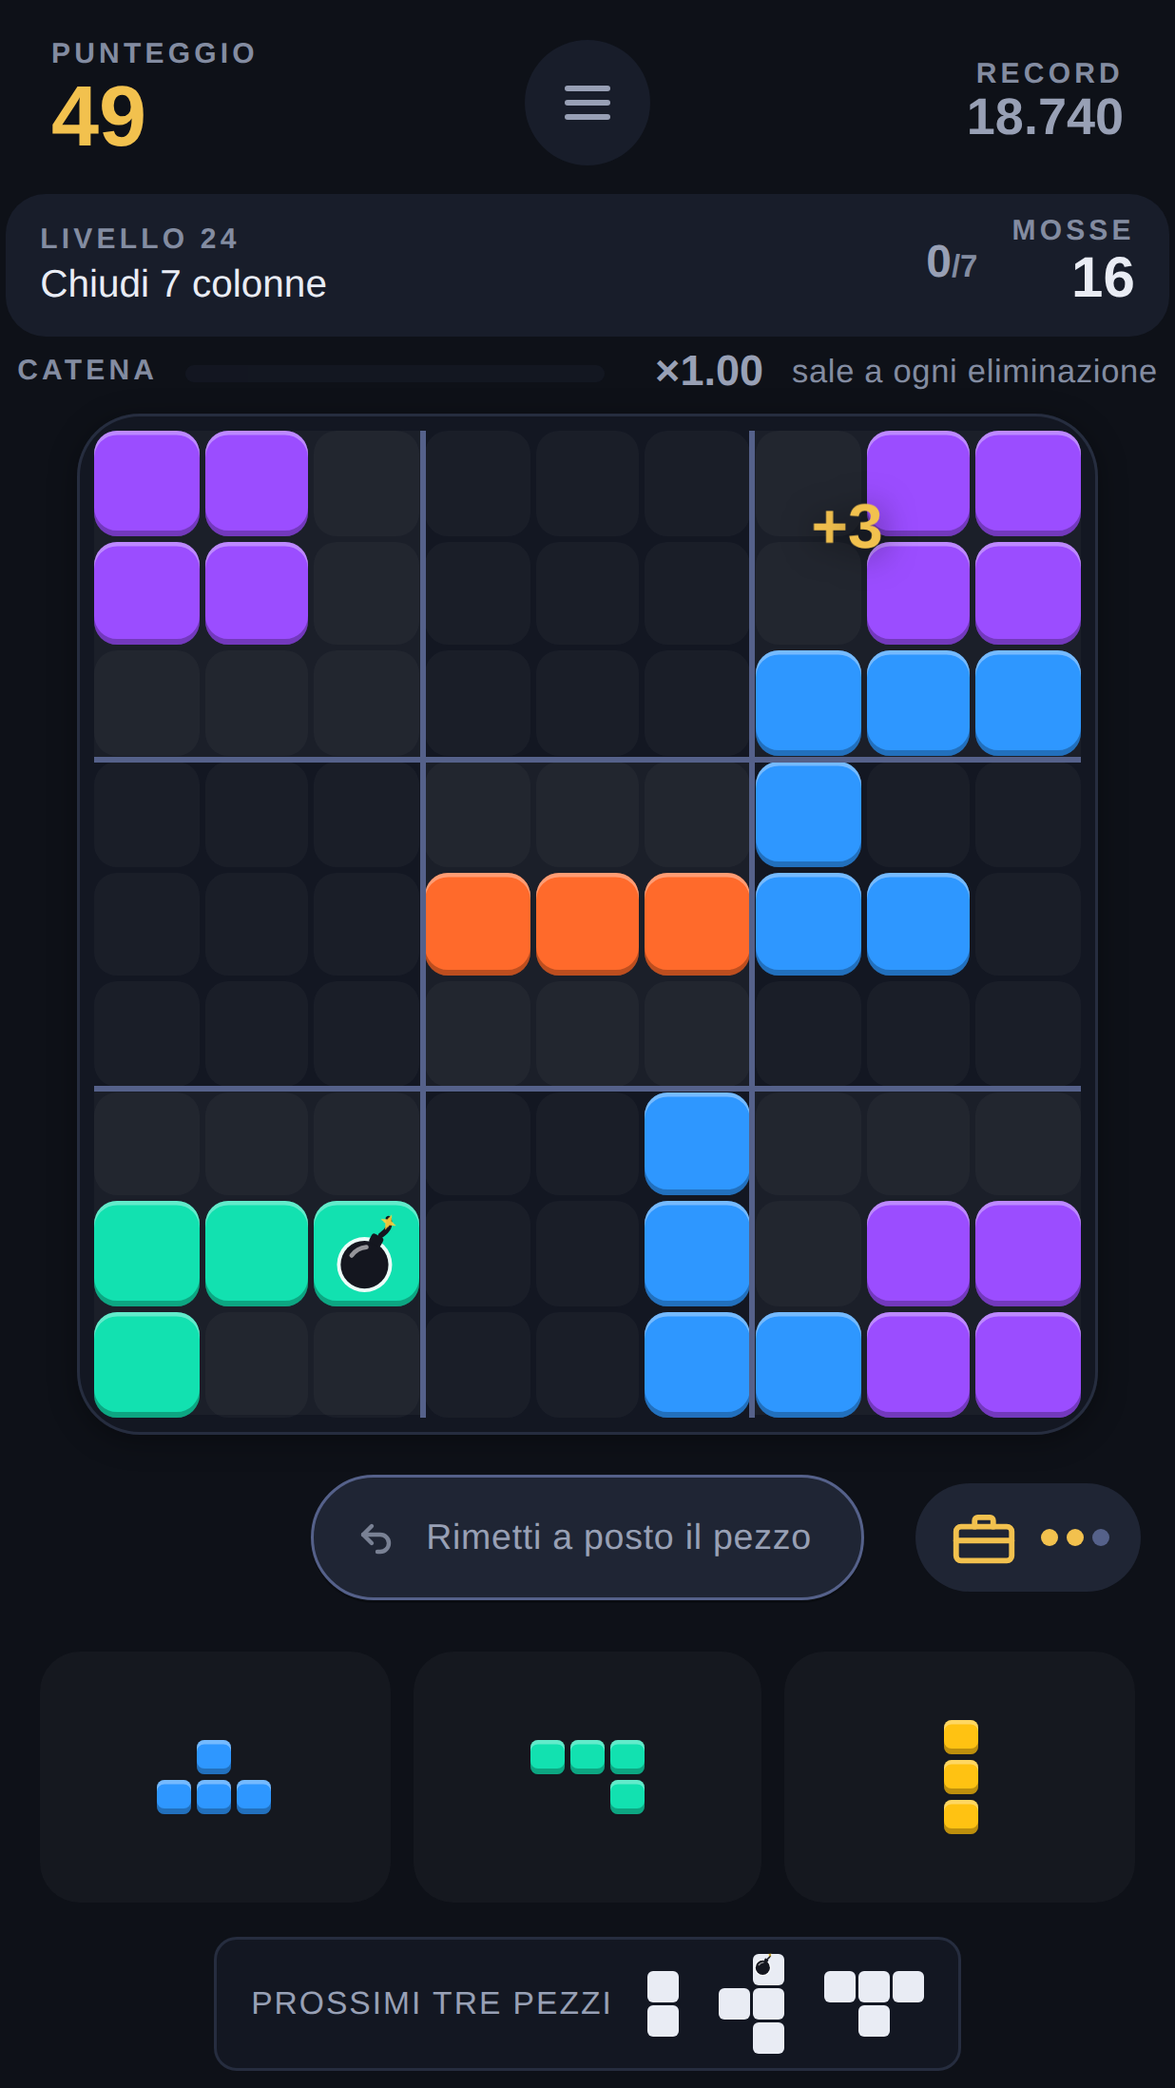
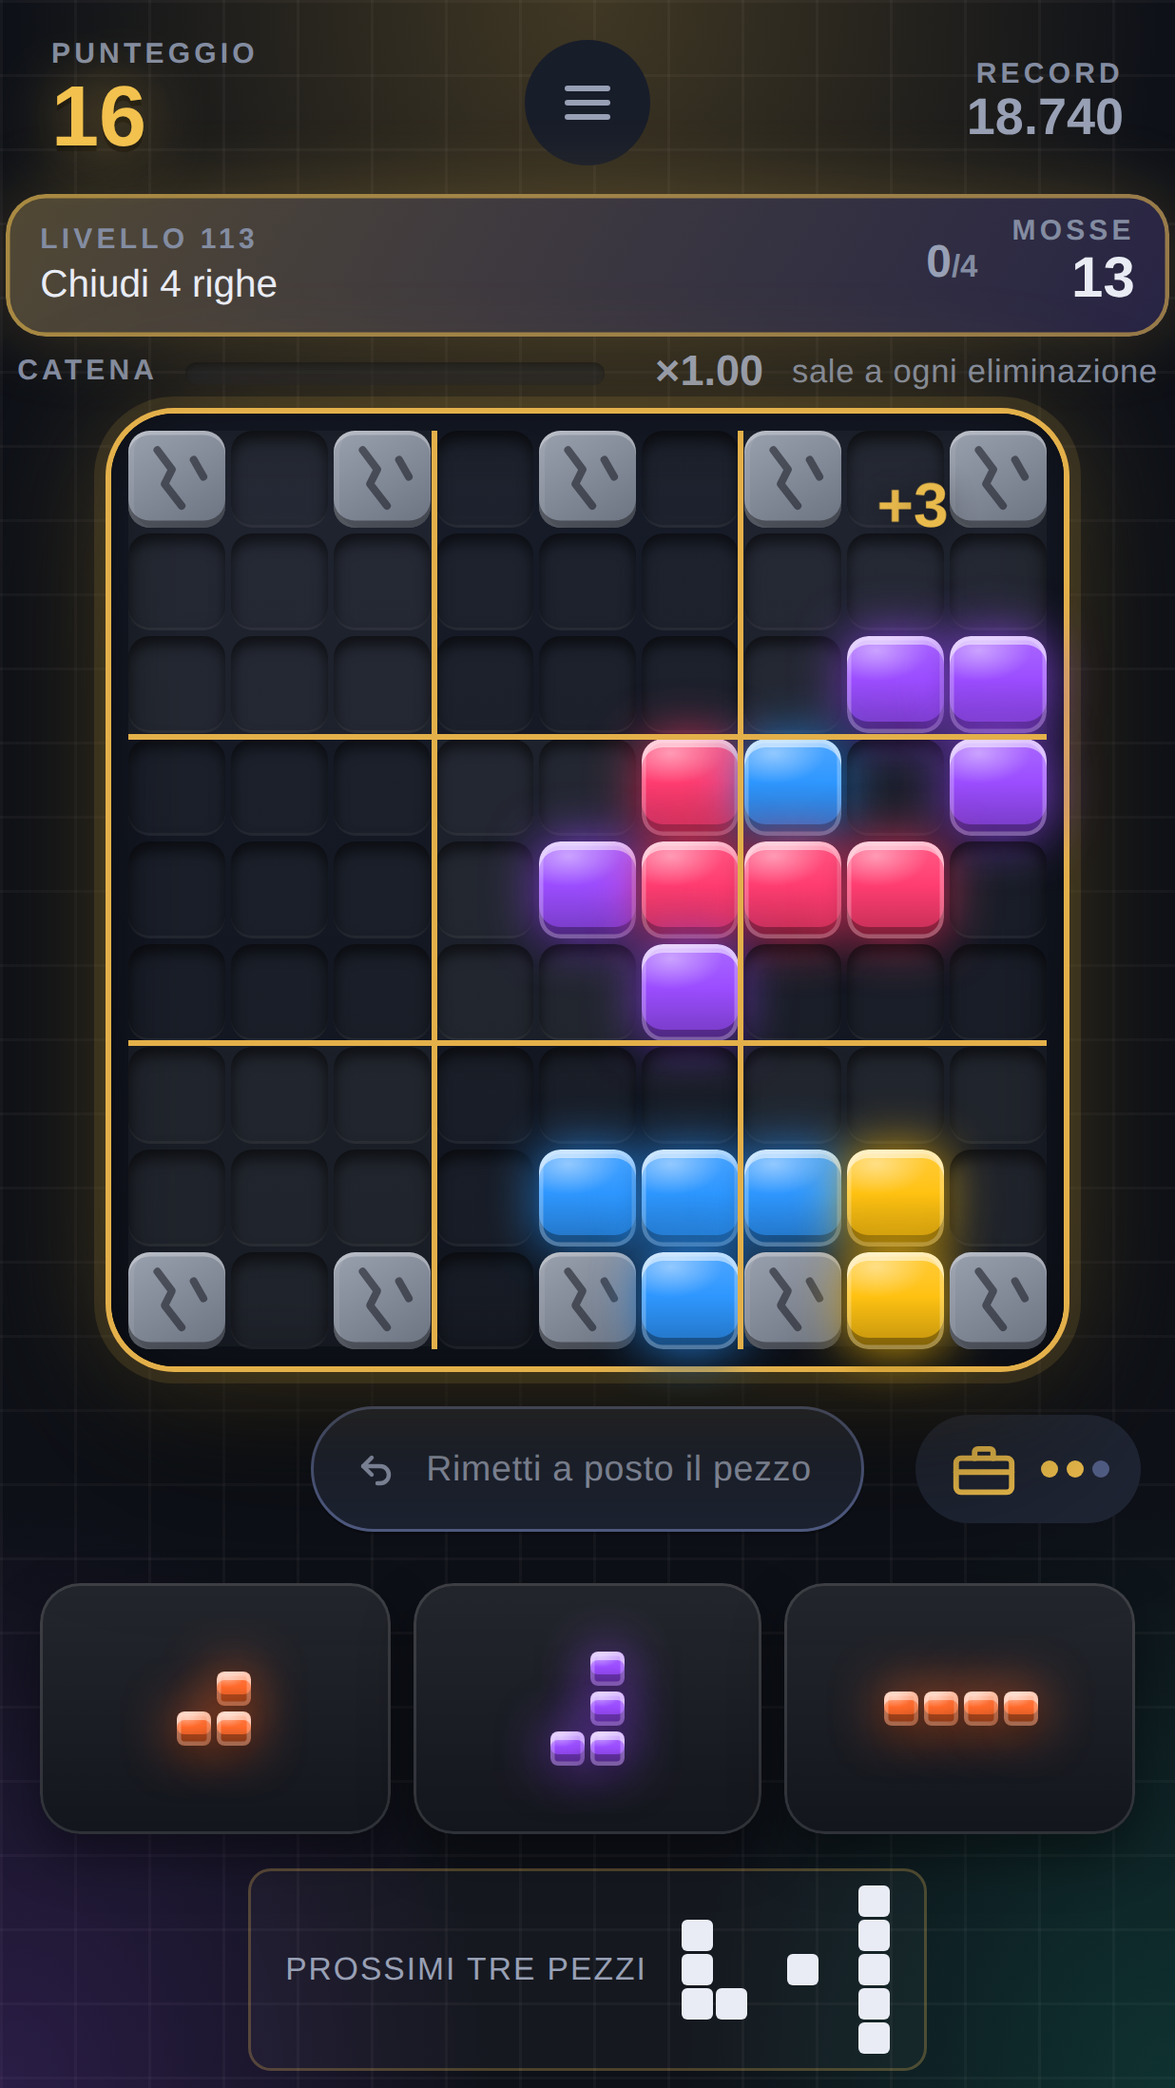
Torre: testi della scheda, note di rilascio e schermate; massi di nuovo visibili
- SCHEDA-PLAY-STORE.md: duecento livelli, i massi, l'ultimo livello di ogni opera,
  note di rilascio IT/EN (limite 500 verificato sulla guida di Play Console).
- schermate.mjs: mappa e livello della Torre; l'Intreccio si scatta a orologio
  fermo e lo strumento si ferma se la scritta manca.
- finiture.css: le gemme solo sui sei colori. Il masso e il blocco che esplode
  diventavano trasparenti; e2e-scenografie ora controlla entrambi.

Claude-Session: https://claude.ai/code/session_01GFoFz1oYDGgk1JF4CCyFX7

diff --git a/src/styles/finiture.css b/src/styles/finiture.css
@@ -132,8 +132,16 @@ body,
 .pl-plancia .pl-cella { box-shadow: inset 0 3px 5px rgba(0, 0, 0, 0.6), inset 0 -1px 0 rgba(255, 255, 255, 0.05); }
 
 /* I blocchi come gemme: riflesso, bordo chiaro e un alone del loro colore. Valgono
-   ovunque ci sia un blocco (plancia, pezzi in mano, pezzo trascinato). */
-.pl-blocco {
+   ovunque ci sia un blocco COLORATO (plancia, pezzi in mano, pezzo trascinato).
+
+   SOLO I SEI COLORI, e non `.pl-blocco` e basta. Con la regola su tutti i blocchi il
+   masso (che non ha colore) e il blocco che esplode (che ha il suo fondo, --esploso)
+   ereditavano una sfumatura costruita su `--blocco`, che per loro non esiste: la
+   dichiarazione diventava invalida e il fondo trasparente. I massi della Torre erano
+   caselle scure con una crepa, quasi invisibili. Visto nelle schermate per lo store,
+   9 ottobre 2026. `:where` e non `:is`: tiene la regola leggera come prima, cosi' le
+   regole di app.css che la battevano (anteprima, posa non valida) la battono ancora. */
+.pl-blocco:where(.pl-blocco--1, .pl-blocco--2, .pl-blocco--3, .pl-blocco--4, .pl-blocco--5, .pl-blocco--6) {
   background:
     radial-gradient(120% 70% at 30% 15%, rgba(255, 255, 255, 0.42) 0%, rgba(255, 255, 255, 0) 45%),
     linear-gradient(180deg, color-mix(in srgb, var(--blocco) 85%, white) 0%, var(--blocco) 45%,

diff --git a/android/SCHEDA-PLAY-STORE.md b/android/SCHEDA-PLAY-STORE.md
@@ -7,7 +7,10 @@ Scheda principale dello Store. Nomi delle voci letti dalla console dell'11 sette
 Google li rinomina ogni tanto. L'AAB invece sta sotto **Testa e rilascia**, ed e' un'altra
 revisione: aggiornare testi e immagini NON richiede un rilascio nuovo.
 
-**Stato dei testi.** Riscritti l'11 settembre 2026, con la versione 1.9.1. La stesura
+**Stato dei testi.** Ramo `opera-torre`: riscritti il 9 ottobre 2026 per l'uscita della
+Torre (duecento livelli, i massi, la regola dell'ultimo livello di ogni opera). Finche' la
+Torre non esce, sulla scheda restano quelli di `main`. Stesura precedente: 11 settembre
+2026, con la versione 1.9.1. La stesura
 precedente era ferma a prima delle bombe, della Tinta, dell'anteprima della terna,
 dell'archivio delle sfide, delle statistiche e della condivisione: raccontava un gioco
 piu' piccolo di quello che si scarica. I cento livelli sono stati portati in apertura,
@@ -24,39 +27,37 @@ PLINTO - puzzle a blocchi
 
 ## Descrizione breve (max 80 caratteri)
 
-Questa e' quella consigliata: dice il numero che colpisce, la regola che distingue il
+Quella consigliata: il numero che colpisce (adesso duecento), la regola che distingue il
 gioco dagli altri puzzle a blocchi, e la cosa che piu' spesso manca agli altri.
 
 ```
-Cento livelli, e i quadranti 3×3 oltre a righe e colonne. Niente pubblicità.
+Duecento livelli, e i quadranti 3×3 oltre a righe e colonne. Niente pubblicità.
 ```
-*76 caratteri.*
+*79 caratteri: un solo carattere di margine.*
 
-Due alternative gia' misurate, se preferisci un'altra enfasi:
-
-```
-Cento livelli tarati. Righe, colonne e quadranti. Senza pubblicità né acquisti.
-```
-*79 caratteri: passa, ma con un solo carattere di margine.*
+Alternativa, se si preferisce nominare la novita':
 
 ```
-Righe, colonne e quadranti. Niente pubblicità, niente acquisti, niente conti.
+Arriva la Torre: 200 livelli di righe, colonne e quadranti 3×3. Zero pubblicità.
 ```
-*77 caratteri. E' la versione attualmente in linea: non nomina i livelli.*
+*80 caratteri. Da riportare alla prima dopo qualche settimana: «arriva» invecchia.*
 
 ## Descrizione completa (max 4000 caratteri)
 
 ```
 PLINTO è un puzzle a blocchi con una regola in più: oltre alle righe e alle colonne si eliminano anche i quadranti 3×3. Tre direzioni invece di due, e una mossa che ne chiude più di uno insieme vale molto di più.
 
-CENTO LIVELLI, MISURATI E NON INVENTATI
-I cento livelli formano un percorso in sette atti, dalle Fondamenta all'Ultima pietra. Ognuno ha un obiettivo dichiarato e un tetto di mosse, e dal quarto atto in poi alcuni ne chiedono due insieme. I bersagli non li ha scelti nessuno a occhio: ogni livello viene giocato venti volte da un giocatore simulato, deve riuscire almeno sei volte, e ogni atto ha una sua fascia di difficoltà, che sale lungo il percorso. Nessun livello è imbattibile. Se uno proprio non riesce, dopo otto tentativi il successivo si apre lo stesso, senza che il gioco finga che tu l'abbia superato.
+DUECENTO LIVELLI IN DUE OPERE, MISURATI E NON INVENTATI
+Prima si costruisce il Ponte: cento livelli in sette atti, dalle Fondamenta all'Ultima pietra. Poi si sale sulla Torre: altri cento, dal Basamento alla Vetta, che si aprono quando hai superato tutto il Ponte. Ogni livello ha un obiettivo dichiarato e un tetto di mosse, e più avanti alcuni ne chiedono due insieme. I bersagli non li ha scelti nessuno a occhio: ogni livello viene giocato venti volte da un giocatore simulato, deve riuscire almeno sei volte, e ogni atto ha una sua fascia di difficoltà, che sale lungo il percorso. Nessun livello è imbattibile. Se uno proprio non riesce, dopo otto tentativi il successivo si apre lo stesso, senza che il gioco finga che tu l'abbia superato. Solo l'ultimo livello di ogni opera non fa sconti: si apre quando hai superato tutti gli altri.
+
+I MASSI
+Nella Torre compaiono i massi: caselle grigie che contano come piene ma non spariscono mai. Aiutano a chiudere la riga, la colonna e il quadrante in cui stanno, e restano lì quando il gruppo se ne va. Le bombe non li portano via e il piccone non li toglie: vanno messi nel conto.
 
 GLI ATTREZZI DEL CANTIERE
 Sono quattro: la carriola cambia un pezzo della mano, il gessetto ti mostra dove conviene mettere un pezzo, il piccone svuota una casella occupata, la mensola mette da parte un pezzo per dopo. Per usarli servono i gettoni: nei livelli ne guadagni 1 ogni cinque livelli superati, e ne tieni al massimo tre. Con ogni gettone usi l'attrezzo che scegli tu, quando ti blocchi. Non si comprano: si guadagnano giocando.
 
 L'INTRECCIO
-Chiudere due o tre gruppi con un solo pezzo è la mossa che vale di più, ed è quella che il gioco esiste per insegnare.
+Chiudere due o tre gruppi con un solo pezzo è la mossa che vale di più, ed è quella che il gioco esiste per insegnare. Quando ci riesci, la plancia te lo fa vedere.
 
 LA CATENA
 Ogni mossa che elimina qualcosa fa salire un moltiplicatore che resta. Una mossa a vuoto non lo tocca; dalla seconda di fila scende di uno a ogni mossa. È una tolleranza dichiarata, non una regola nascosta.
@@ -85,7 +86,7 @@ Una volta installato si gioca offline.
 ACCESSIBILE
 Contrasti verificati secondo lo standard WCAG AA, gioco completo da tastiera, descrizioni per chi usa un lettore di schermo, e se nel telefono hai chiesto di ridurre le animazioni il gioco lo rispetta.
 ```
-*3218 caratteri su 4000. Aggiornata alla 1.19.4 (attrezzi e gettoni distinti: gli attrezzi sono i quattro strumenti, i gettoni sono quello che si guadagna); prima alla 1.19.1: soglia della Tinta (sette su nove, dalla 1.15.0), Catena contata in mosse, taratura a venti partite con fasce per atto (1.17.0), attrezzi del cantiere, animazioni che seguono il sistema invece di un interruttore.*
+*3781 caratteri su 4000. Aggiornata per la Torre (9 ottobre 2026): duecento livelli in due opere, i massi, l'ultimo livello di ogni opera che si apre solo superando tutti gli altri, l'Intreccio che si vede. Prima: 1.19.4.*
 
 ## In inglese (Play Console → Traduzioni)
 
@@ -103,23 +104,26 @@ PLINTO - block puzzle
 ### Short description (max 80)
 
 ```
-A hundred levels, and 3×3 quadrants on top of rows and columns. No ads.
+Two hundred levels, and 3×3 quadrants on top of rows and columns. No ads.
 ```
-*71 caratteri. Alternativa piu' piana, 68: «A hundred levels. Rows, columns and quadrants. No ads, no purchases.»*
+*73 caratteri.*
 
 ### Full description (max 4000)
 
 ```
 PLINTO is a block puzzle with one extra rule: besides rows and columns, you also clear 3×3 quadrants. Three directions instead of two, and a move that closes more than one at once is worth far more.
 
-A HUNDRED LEVELS, MEASURED AND NOT INVENTED
-The hundred levels form a path in seven acts, from the Foundations to the Last Stone. Each has a stated goal and a move limit, and from the fourth act on, some ask for two at once. The targets were not picked by eye: every level is played twenty times by a simulated player, must come off at least six times, and each act has its own difficulty band, rising along the path. No level is unbeatable. If one really will not go, after eight attempts the next one opens anyway, without the game pretending you cleared it.
+TWO HUNDRED LEVELS IN TWO WORKS, MEASURED AND NOT INVENTED
+First you build the Bridge: a hundred levels in seven acts, from the Foundations to the Last Stone. Then you climb the Tower: a hundred more, from the Base to the Summit, which open once you have cleared the whole Bridge. Each level has a stated goal and a move limit, and further on some ask for two at once. The targets were not picked by eye: every level is played twenty times by a simulated player, must come off at least six times, and each act has its own difficulty band, rising along the path. No level is unbeatable. If one really will not go, after eight attempts the next one opens anyway, without the game pretending you cleared it. Only the last level of each work makes no allowances: it opens once you have cleared all the others.
+
+BOULDERS
+In the Tower you meet boulders: grey squares that count as filled but never disappear. They help close the row, the column and the quadrant they sit in, and they stay put when the group goes. Bombs do not carry them off and the pickaxe does not remove them: you have to plan around them.
 
 THE SITE TOOLS
 There are four: the wheelbarrow swaps a piece in your hand, the chalk shows you where a piece fits best, the pickaxe empties a filled square, the shelf sets a piece aside for later. To use them you need tokens: in the levels you earn 1 every five levels cleared, and you can keep up to three. With each token you use whichever tool you pick, when you are stuck. They cannot be bought: you earn them by playing.
 
 THE INTERLACE
-Closing two or three groups with a single piece is the move that pays most, and it is the one the game exists to teach.
+Closing two or three groups with a single piece is the move that pays most, and it is the one the game exists to teach. When you pull it off, the board lets you see it.
 
 THE CHAIN
 Every move that clears something raises a multiplier that stays. One empty move leaves it alone; from the second in a row it drops by one with each move. That tolerance is stated, not hidden.
@@ -148,7 +152,25 @@ Once installed, it plays without a connection.
 ACCESSIBLE
 Contrast verified to the WCAG AA standard, full keyboard play, descriptions for people using a screen reader, and if you asked your phone to reduce motion, the game respects it.
 ```
-*3012 caratteri su 4000. Aggiornata alla 1.19.4.*
+*3604 caratteri su 4000. Aggiornata per la Torre (9 ottobre 2026).*
+
+## Note di rilascio della Torre («Novità»)
+
+Si incollano nella release di produzione, non nella scheda. Limite: **500 caratteri
+Unicode per lingua** (guida di Play Console, «Preparare e implementare una release»,
+letta il 9 ottobre 2026).
+
+```
+<it-IT>
+Arriva la Torre: cento livelli nuovi, dal 101 al 200, che si aprono quando hai finito il Ponte. Con una regola nuova, i massi: caselle che contano come piene ma non spariscono mai. E il gioco ha una veste nuova: blocchi lucidi, la plancia d'ottone e nuove animazioni quando chiudi più gruppi insieme.
+</it-IT>
+<en-US>
+The Tower is here: a hundred new levels, 101 to 200, opening once you finish the Bridge. With a new rule, boulders: squares that count as filled but never disappear. And the game has a new look: glossy blocks, a brass board and new animations when you close several groups at once.
+</en-US>
+```
+*Italiano 300 caratteri, inglese 281. I tag `<it-IT>` e `<en-US>` sono il formato con cui la
+console accetta piu' lingue in un solo campo; se la console mostra un campo per lingua,
+si incolla solo il testo.*
 
 ## Categoria
 
@@ -212,10 +234,10 @@ nove immagini da 1170×2532 (rapporto 2,16): non sarebbero state accettate. Ades
 
 | # | File | Che cosa dice nei primi due secondi |
 | --- | --- | --- |
-| 1 | `1-mappa-livelli.png` | Ci sono cento livelli e un percorso da fare, e la cassetta segna dove si guadagna un gettone per gli attrezzi. E' l'informazione che distingue PLINTO da un puzzle a blocchi infinito |
+| 1 | `1-mappa-livelli.png` | Ci sono due opere da costruire, il Ponte e la Torre, duecento livelli in tutto: qui la Torre, con il Ponte gia' finito. La cassetta segna dove si guadagna un gettone per gli attrezzi. E' l'informazione che distingue PLINTO da un puzzle a blocchi infinito |
 | 2 | `2-apertura-livello.png` | Ogni livello ha un obiettivo dichiarato e un tetto di mosse: non si gioca a caso |
-| 3 | `3-livello.png` | Com'e' fatto un livello mentre lo giochi: l'obiettivo in cima, la prossima terna in vista, la cassetta degli attrezzi |
-| 4 | `4-eliminazione.png` | Il momento in cui la mossa va a segno: colore, particelle, punti |
+| 3 | `3-livello.png` | Com'e' fatto un livello della Torre mentre lo giochi: i massi grigi, l'obiettivo in cima, la prossima terna in vista, la cassetta degli attrezzi |
+| 4 | `4-eliminazione.png` | Il momento in cui la mossa va a segno: l'Intreccio con la sua scritta, le scie di luce, le particelle, i punti |
 | 5 | `5-partita.png` | La partita libera, per chi vuole giocare senza obiettivi |
 | 6 | `6-fine-partita.png` | La fine dice il motivo e i numeri di una partita vera, e il pulsante per rigiocare e' sotto il pollice |
 | 7 | `7-statistiche.png` | Il gioco tiene traccia di come giochi, non solo di quanto hai fatto |

diff --git a/docs/USCITA-TORRE.md b/docs/USCITA-TORRE.md
@@ -14,12 +14,12 @@ Android Studio (Claude non ha accesso a nessuno dei due).
       la Torre sull'Arena.
 - [ ] **[C]** Gate completo sulla Torre: `npm run verifica`, 28 controlli, tutti i 200
       livelli rigiocati nell'app. Supera le 2 ore: si fa a pezzi, come il 9 ottobre.
-- [ ] **[C]** Testi della scheda (`android/SCHEDA-PLAY-STORE.md`), italiano e inglese:
+- [x] **[C]** Testi della scheda (`android/SCHEDA-PLAY-STORE.md`), italiano e inglese:
       «cento livelli» diventa 200 (il Ponte e la Torre), si spiegano i massi e la regola
       dell'ultimo livello di ogni opera, si toglie o si riscrive la frase degli «otto
       tentativi». Rispettare i limiti: nome 30, breve 80, completa 4000 caratteri.
-- [ ] **[C]** Note di rilascio («Novita'») in italiano e inglese, entro 500 caratteri.
-- [ ] **[C]** Rigenerare le otto schermate con la grafica nuova (`npm run schermate`) e
+- [x] **[C]** Note di rilascio («Novita'») in italiano e inglese, entro 500 caratteri.
+- [x] **[C]** Rigenerare le otto schermate con la grafica nuova (`npm run schermate`) e
       aggiornare la tabella delle schermate nella scheda (la prima parla di «cento livelli»).
 - [ ] **[C]** Facoltativo: video nuovo (`npm run video`), da caricare su YouTube.
 - [ ] **[P]** Decidere come provare la Torre su un telefono vero PRIMA dell'uscita.
@@ -35,21 +35,23 @@ Android Studio (Claude non ha accesso a nessuno dei due).
 2. [ ] **[C]** Versione **1.21.0** (contenuto nuovo): `package.json`, `versionName`,
        `versionCode` = ultimo caricato + 1; nel CHANGELOG il blocco «Non pubblicato — La
        Torre» diventa «1.21.0» con la data.
-3. [ ] **[C]** `opera-torre` su `main`, push. La pubblicazione del sito e' automatica e
+3. [ ] **[C]** Rigenerare le schermate (`npm run schermate`), DOPO il cambio di versione: quelle pronte dicono
+       v1.20.1 nella home di riserva, e lo strumento si ferma se la versione non torna.
+4. [ ] **[C]** `opera-torre` su `main`, push. La pubblicazione del sito e' automatica e
        **arriva subito anche a chi gioca dall'app del Play Store**, perche' l'app mostra il sito.
-4. [ ] **[C]** Controllo che il sito pubblicato serva la 1.21.0 e che la CI sia verde; avviso.
-5. [ ] **[P]** Android Studio → *Build → Generate Signed App Bundle* → release, con la
+5. [ ] **[C]** Controllo che il sito pubblicato serva la 1.21.0 e che la CI sia verde; avviso.
+6. [ ] **[P]** Android Studio → *Build → Generate Signed App Bundle* → release, con la
        chiave di sempre (`android/COME-PUBBLICARE.md`, passo 1). Serve per la nuova icona
        sui telefoni e per il numero di versione in «Informazioni app».
-6. [ ] **[P]** Play Console → Produzione → nuova release → carica l'AAB → incolla le note
+7. [ ] **[P]** Play Console → Produzione → nuova release → carica l'AAB → incolla le note
        di rilascio → invia in revisione.
-7. [ ] **[P]** Play Console → Scheda dello store:
+8. [ ] **[P]** Play Console → Scheda dello store:
        - icona 512×512: `public/icone/icona-512.png`;
        - immagine in evidenza 1024×500: `store/immagine-in-evidenza.png`;
        - le otto schermate da `store/`, nell'ordine della scheda;
        - descrizione breve e completa, italiano e inglese;
        - video, se rifatto.
-8. [ ] **[P]** Provare sul proprio telefono: home, mappa con le due schede, un livello
+9. [ ] **[P]** Provare sul proprio telefono: home, mappa con le due schede, un livello
        con un masso, un Intreccio.
 
 ## C. Dopo

diff --git a/docs/CHANGELOG.md b/docs/CHANGELOG.md
@@ -49,11 +49,21 @@ Non ancora in produzione: aspetta il via del proprietario.
   Chi chiede meno movimento al sistema non vede scie, scritta, scossa e onda; chi spegne
   gli effetti nelle impostazioni non li riceve. `npm run e2e-scenografie` prova un
   Intreccio vero, una riga sola (niente scritta) e la versione con meno movimento.
+- **Testi della scheda e schermate per l'uscita della Torre**: duecento livelli, i massi,
+  l'ultimo livello di ogni opera, note di rilascio in italiano e inglese
+  (`android/SCHEDA-PLAY-STORE.md`). Le schermate mostrano la Torre; quella
+  dell'eliminazione si scatta a orologio fermo, perche' la scritta dell'Intreccio dura
+  meno della cattura. Da rigenerare il giorno dell'uscita, per il numero di versione.
 - **Immagine in evidenza dello store** con il marchio a gemme (letto da `public/icon.svg`),
   la plancia d'ottone e due massi; «200 livelli». Da caricare in Play Console all'uscita.
 
 ### Corretto
 
+- **I massi quasi non si vedevano con la grafica nuova**, e i blocchi che esplodono
+  perdevano il loro colore: la regola delle gemme valeva per ogni blocco, anche per
+  quelli senza colore, e per loro il fondo diventava trasparente. Ora vale solo per i sei
+  colori. Visto nelle schermate per lo store; `npm run e2e-scenografie` controlla adesso
+  il fondo del masso e quello del blocco che esplode.
 - Il titolo della festa diceva «{opera} è finito»: con la Torre sarebbe diventato «La
   Torre è finito». Adesso ogni opera ha il suo titolo scritto per intero.
 
